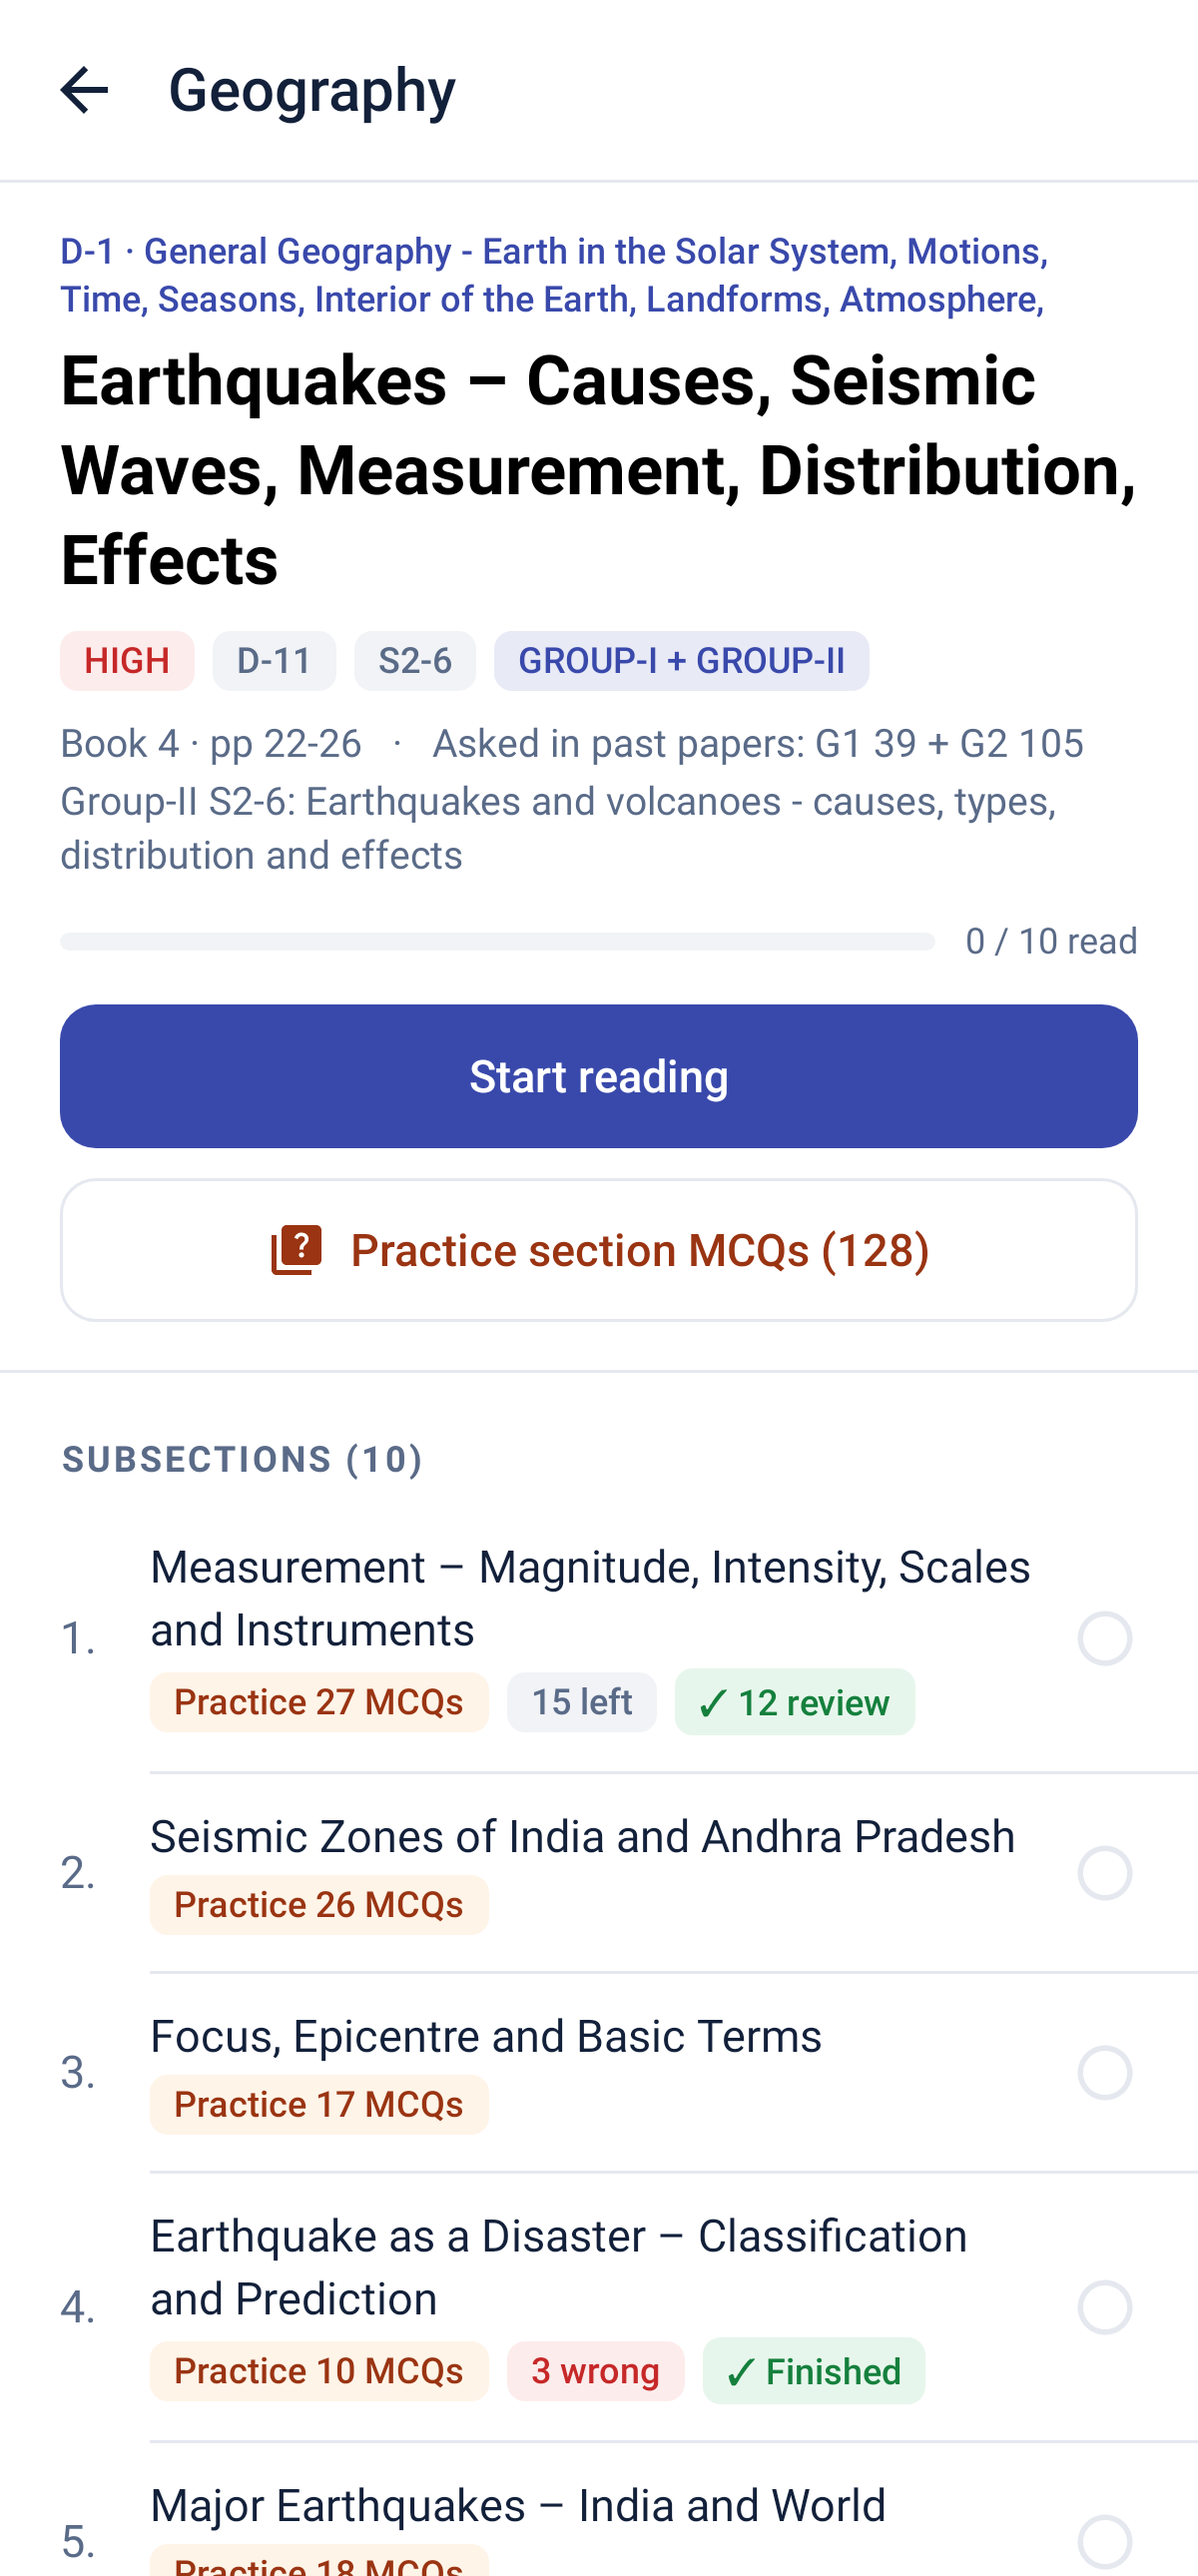
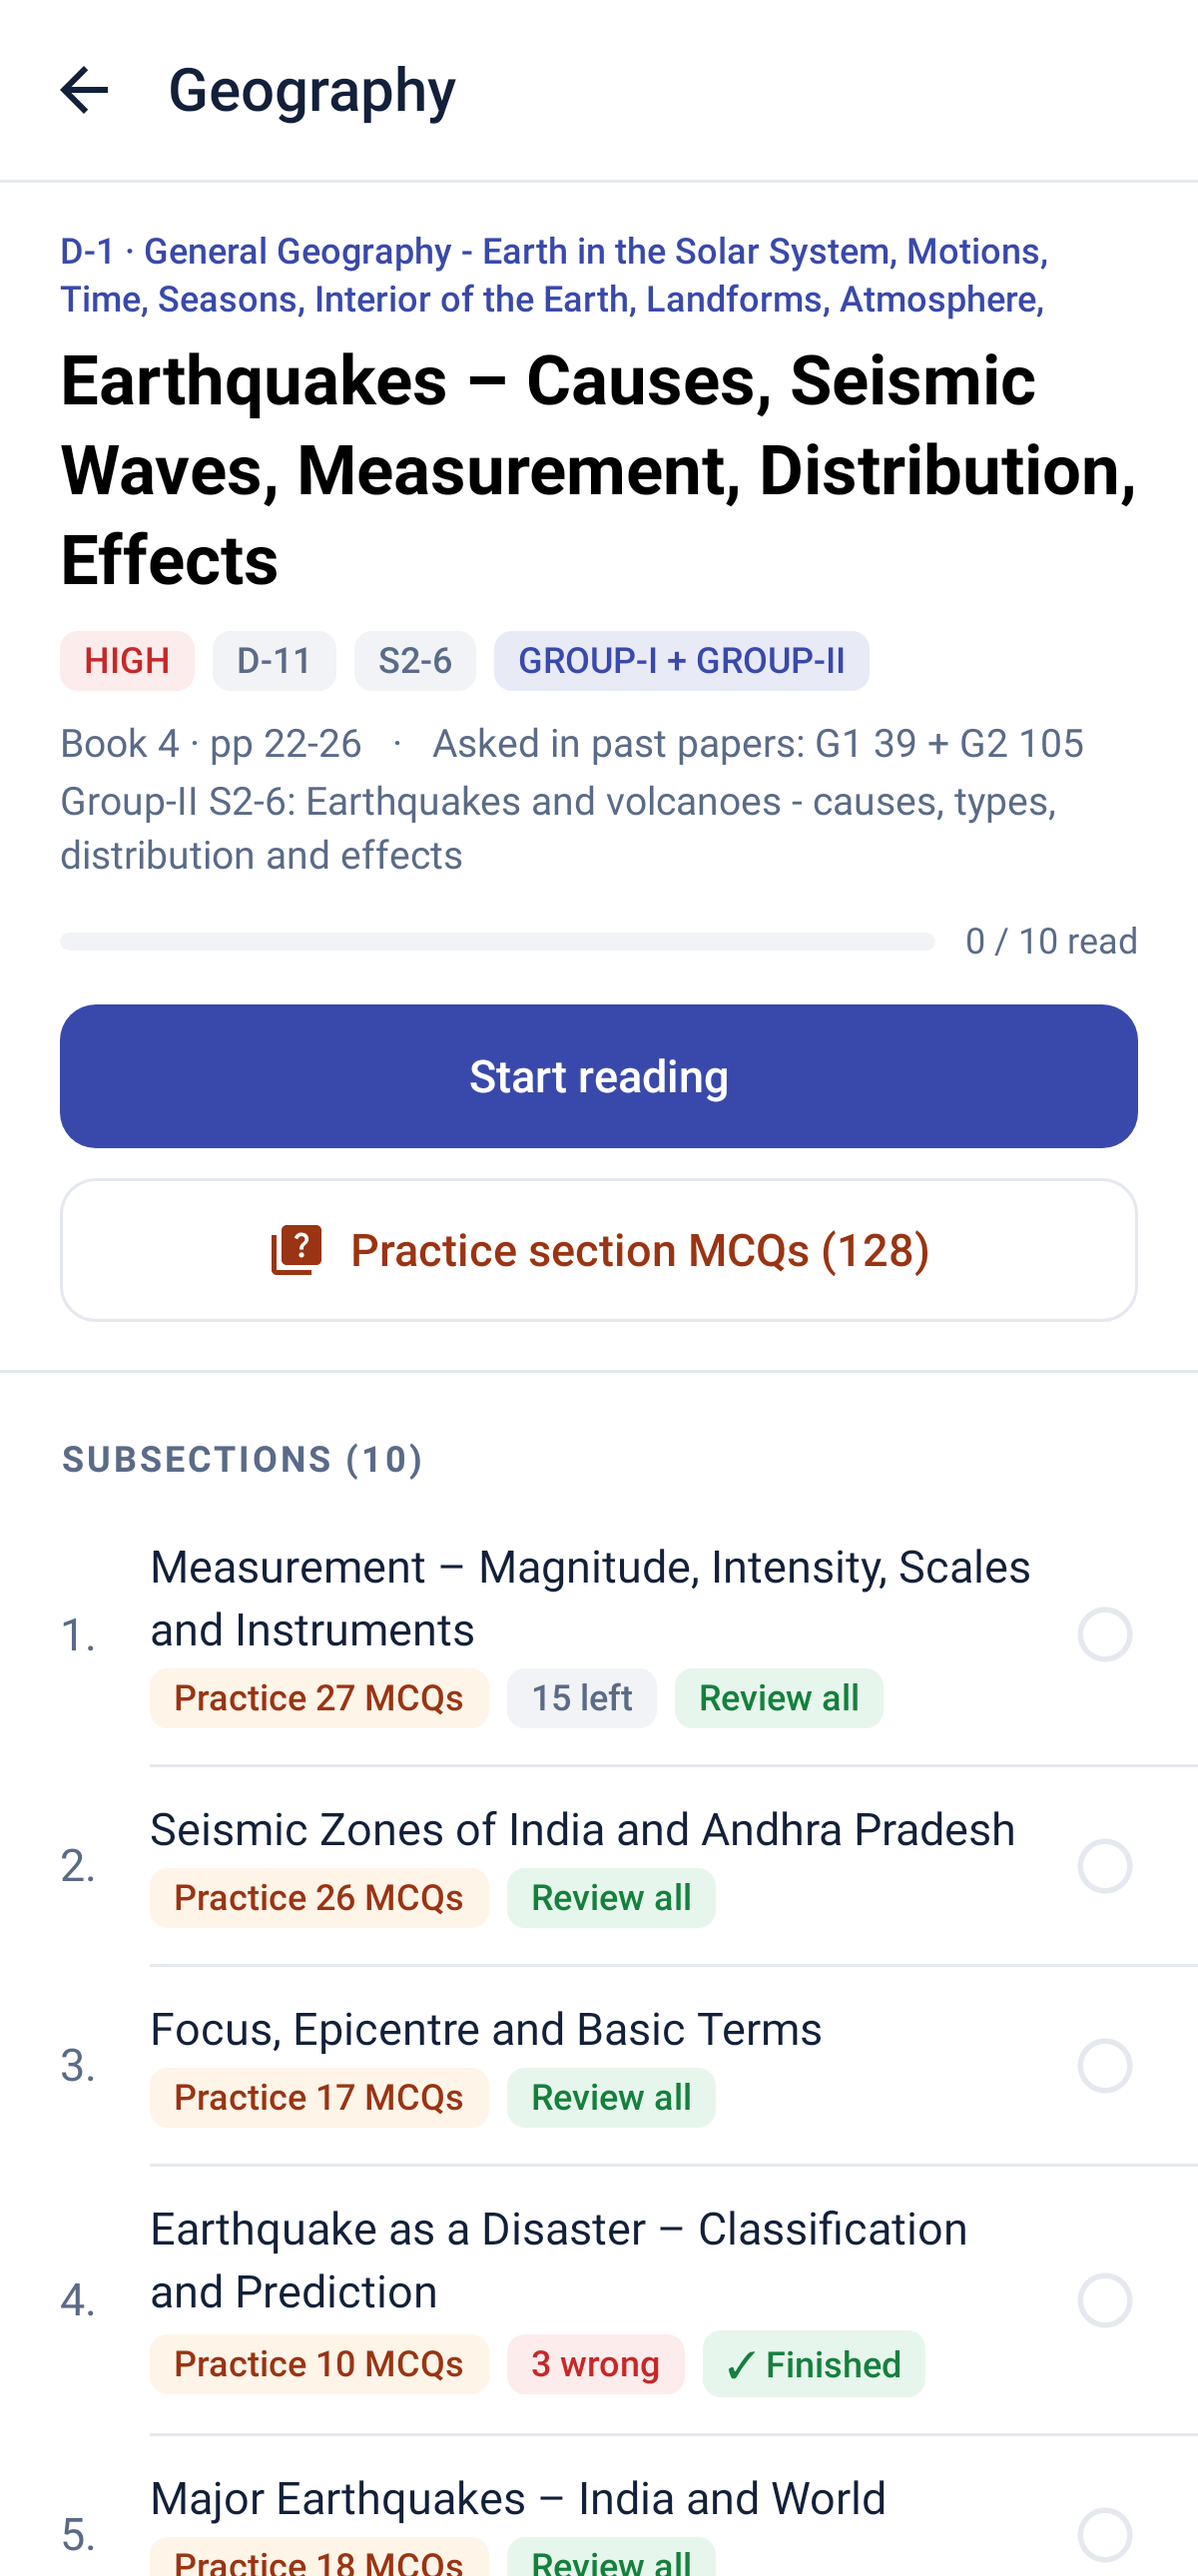
Review shows every MCQ of the set, answered or not (Not attempted tag, Not answered filter); 3.63
Claude-Session: https://claude.ai/code/session_01PKGGFub7rwSfsErjs44tnL

diff --git a/app/src/main/java/com/appsc/prep/ui/screens/QuizScreen.kt b/app/src/main/java/com/appsc/prep/ui/screens/QuizScreen.kt
@@ -153,7 +153,7 @@ suspend fun duePool(app: com.appsc.prep.ui.components.AppState, day: Int = 0): L
 
 /**
  * mode: "new" = unattempted ones, "wrong" = answered wrong, "practice" = wrong or answered after seeing the answer
- * ([needsPractice]), "all" = every question in order, "review" = the finished ones with their keys and explanations
+ * ([needsPractice]), "all" = every question in order, "review" = every question of the set (answered or not) with its key and explanation
  * (read, not answered again). The whole section comes in one run.
  */
 fun pickSet(pool: List<Question>, answers: Map<String, Boolean>, seen: Set<String>, mode: String): List<Question> {
@@ -162,7 +162,7 @@ fun pickSet(pool: List<Question>, answers: Map<String, Boolean>, seen: Set<Strin
         "practice" -> pool.filter { it.scored && needsPractice(it.id, answers, seen) }
         "new" -> pool.filter { it.id !in answers && it.id !in seen }.ifEmpty { pool }
         // the finished ones (answered, or answer seen), each with its key and explanation, to read through
-        "review" -> pool.filter { it.id in answers || it.id in seen }
+        "review" -> pool
         else -> pool
     }
     return chosen
@@ -832,7 +832,7 @@ private fun ReviewList(
     var filter by rememberSaveable { mutableStateOf("all") }
     val right = set.count { store.answers[it.id] == true }
     val wrong = set.count { store.answers[it.id] == false }
-    val seenOnly = set.size - right - wrong
+    val notAnswered = set.size - right - wrong
     val left = pool.size - pool.count { store.attempted(it.id) }
     val shownSet = when (filter) {
         "wrong" -> set.filter { store.answers[it.id] == false }
@@ -847,12 +847,12 @@ private fun ReviewList(
                     Icon(Icons.Filled.CheckCircle, null, tint = C.Green, modifier = Modifier.size(22.dp))
                     Spacer(Modifier.width(8.dp))
                     Text(
-                        if (left == 0) "All ${pool.size} finished" else "${set.size} of ${pool.size} finished",
+                        if (left == 0) "All ${pool.size} finished" else "Review all ${set.size} · ${pool.size - left} finished",
                         style = TextStyle(fontSize = 20.sp, fontWeight = FontWeight.Bold, color = C.Ink),
                     )
                 }
                 Text(
-                    "Answers and explanations of the finished MCQs — read through them, no need to answer again.",
+                    "Every MCQ here with its answer and explanation, answered or not — read through them, no need to answer.",
                     style = TextStyle(fontSize = 13.sp, lineHeight = 18.sp, color = C.Muted),
                     modifier = Modifier.padding(top = 4.dp),
                 )
@@ -876,7 +876,7 @@ private fun ReviewList(
                     chip("All", set.size, "all", C.ExamInk, C.ExamBg, Modifier.weight(1f))
                     chip("Correct", right, "right", C.Green, C.GreenSoft, Modifier.weight(1f))
                     chip("Wrong", wrong, "wrong", C.High, C.HighSoft, Modifier.weight(1f))
-                    chip("Answer seen", seenOnly, "seen", C.Med, C.MedSoft, Modifier.weight(1f))
+                    chip("Not answered", notAnswered, "seen", C.Med, C.MedSoft, Modifier.weight(1f))
                 }
                 Spacer(Modifier.height(10.dp))
                 Row(horizontalArrangement = Arrangement.spacedBy(8.dp)) {
@@ -920,7 +920,7 @@ private fun ReviewList(
                         when (result) {
                             true -> Tag("✓ You got it right", C.GreenSoft, C.Green)
                             false -> Tag("✗ You answered wrong", C.HighSoft, C.High)
-                            null -> Tag("Answer seen", C.MedSoft, C.Med)
+                            null -> if (q.id in store.seen) Tag("Answer seen", C.MedSoft, C.Med) else Tag("Not attempted", C.Chip, C.Muted)
                         }
                         if (q.appsc) Tag("APPSC", C.ExamBg, C.ExamInk)
                         if (q.source.isNotBlank()) Tag(q.source)
@@ -1016,8 +1016,8 @@ private fun Results(
                     ProgressLine(attempted / pool.size.toFloat())
                 }
                 Spacer(Modifier.height(18.dp))
-                if (attempted > 0) {
-                    // the finished ones with their keys and explanations, to read through without answering again
+                if (pool.isNotEmpty()) {
+                    // every MCQ of the set with its key and explanation, answered or not, to read through
                     Button(
                         onClick = { onNext("review") },
                         modifier = Modifier.fillMaxWidth().height(50.dp),
@@ -1025,7 +1025,7 @@ private fun Results(
                         colors = ButtonDefaults.buttonColors(containerColor = if (remaining == 0) C.Green else C.ExamInk),
                     ) {
                         Text(
-                            if (remaining == 0) "Finished all $attempted · review answers" else "Review the $attempted finished · answers",
+                            if (remaining == 0) "Finished all $attempted · review answers" else "Review all ${pool.size} · answers & explanations",
                             style = TextStyle(fontSize = 15.sp, fontWeight = FontWeight.SemiBold),
                         )
                     }

diff --git a/app/src/main/java/com/appsc/prep/ui/components/Common.kt b/app/src/main/java/com/appsc/prep/ui/components/Common.kt
@@ -505,10 +505,9 @@ fun PracticeCard(
                     SetChip("Practise", sets.practice, C.Med, C.MedSoft, Modifier.weight(1f)) { onSet("practice") }
                     SetChip("All", sets.total, C.ExamInk, C.ExamBg, Modifier.weight(1f)) { onSet("all") }
                 }
-                // the finished ones with their keys, your answers and the explanations - read them, no need to
+                // every MCQ of the set with its key, your answer (if any) and the explanation - read them, no need to
                 // answer them all again
-                val finished = sets.total - sets.unattempted
-                if (finished > 0) {
+                if (sets.total > 0) {
                     Spacer(Modifier.height(10.dp))
                     androidx.compose.material3.Button(
                         onClick = { onSet("review") },
@@ -520,7 +519,7 @@ fun PracticeCard(
                         Icon(Icons.Filled.CheckCircle, null, modifier = Modifier.size(18.dp))
                         Spacer(Modifier.width(8.dp))
                         Text(
-                            if (sets.unattempted == 0) "Review all $finished · answers & explanations" else "Review $finished finished · answers & explanations",
+                            "Review all ${sets.total} · answers & explanations",
                             style = TextStyle(fontSize = 14.sp, fontWeight = FontWeight.SemiBold),
                             maxLines = 1,
                         )

diff --git a/app/src/testComplete/java/com/appsc/prep/ReviewShotsTest.kt b/app/src/testComplete/java/com/appsc/prep/ReviewShotsTest.kt
@@ -98,6 +98,17 @@ class ReviewShotsTest {
         rule.onRoot().captureRoboImage("screenshots/review/5_review_filter_wrong.png")
     }
 
+    /** Review shows every MCQ of the set, the ones not answered yet too (with their keys and explanations). */
+    @Test fun reviewShowsTheUnansweredToo() {
+        val app = app()
+        val all = runBlocking { app.repo.mcq(4) }.subQuestions(10, 0)
+        show(app) { QuizScreen(QuizSource("sub", 4, 10, 0), "review", "Subsection MCQs", nav) }
+        rule.onNodeWithText("Review all ${all.size} · 12 finished", substring = true).assertExists()
+        rule.onNode(hasScrollAction()).performScrollToNode(hasText("Not attempted", substring = true))
+        rule.waitForIdle()
+        rule.onRoot().captureRoboImage("screenshots/review/8_review_not_attempted.png")
+    }
+
     /** "Practise" on a subsection already all finished opens the review, not the same MCQs again. */
     @Test fun practiseWhenAllFinishedOpensReview() {
         show(app()) { QuizScreen(QuizSource("sub", 4, 10, 3), "new", "Subsection MCQs", nav) }

diff --git a/app/src/main/java/com/appsc/prep/ui/screens/SectionScreen.kt b/app/src/main/java/com/appsc/prep/ui/screens/SectionScreen.kt
@@ -217,9 +217,9 @@ fun SectionScreen(bookId: Int, rowIndex: Int, nav: Nav, day: Int = 0) {
                                         }
                                         // finished ones: their keys and explanations, without answering again
                                         val fin = subQ - subSets.unattempted
-                                        if (fin > 0) {
+                                        if (subQ > 0) {
                                             Tag(
-                                                if (fin == subQ) "✓ Finished" else "✓ $fin review",
+                                                if (fin == subQ) "✓ Finished" else "Review all",
                                                 C.GreenSoft, C.Green,
                                                 modifier = Modifier.clickable { nav.quiz("sub", bookId, rowIndex, "review", sub = i) },
                                             )
